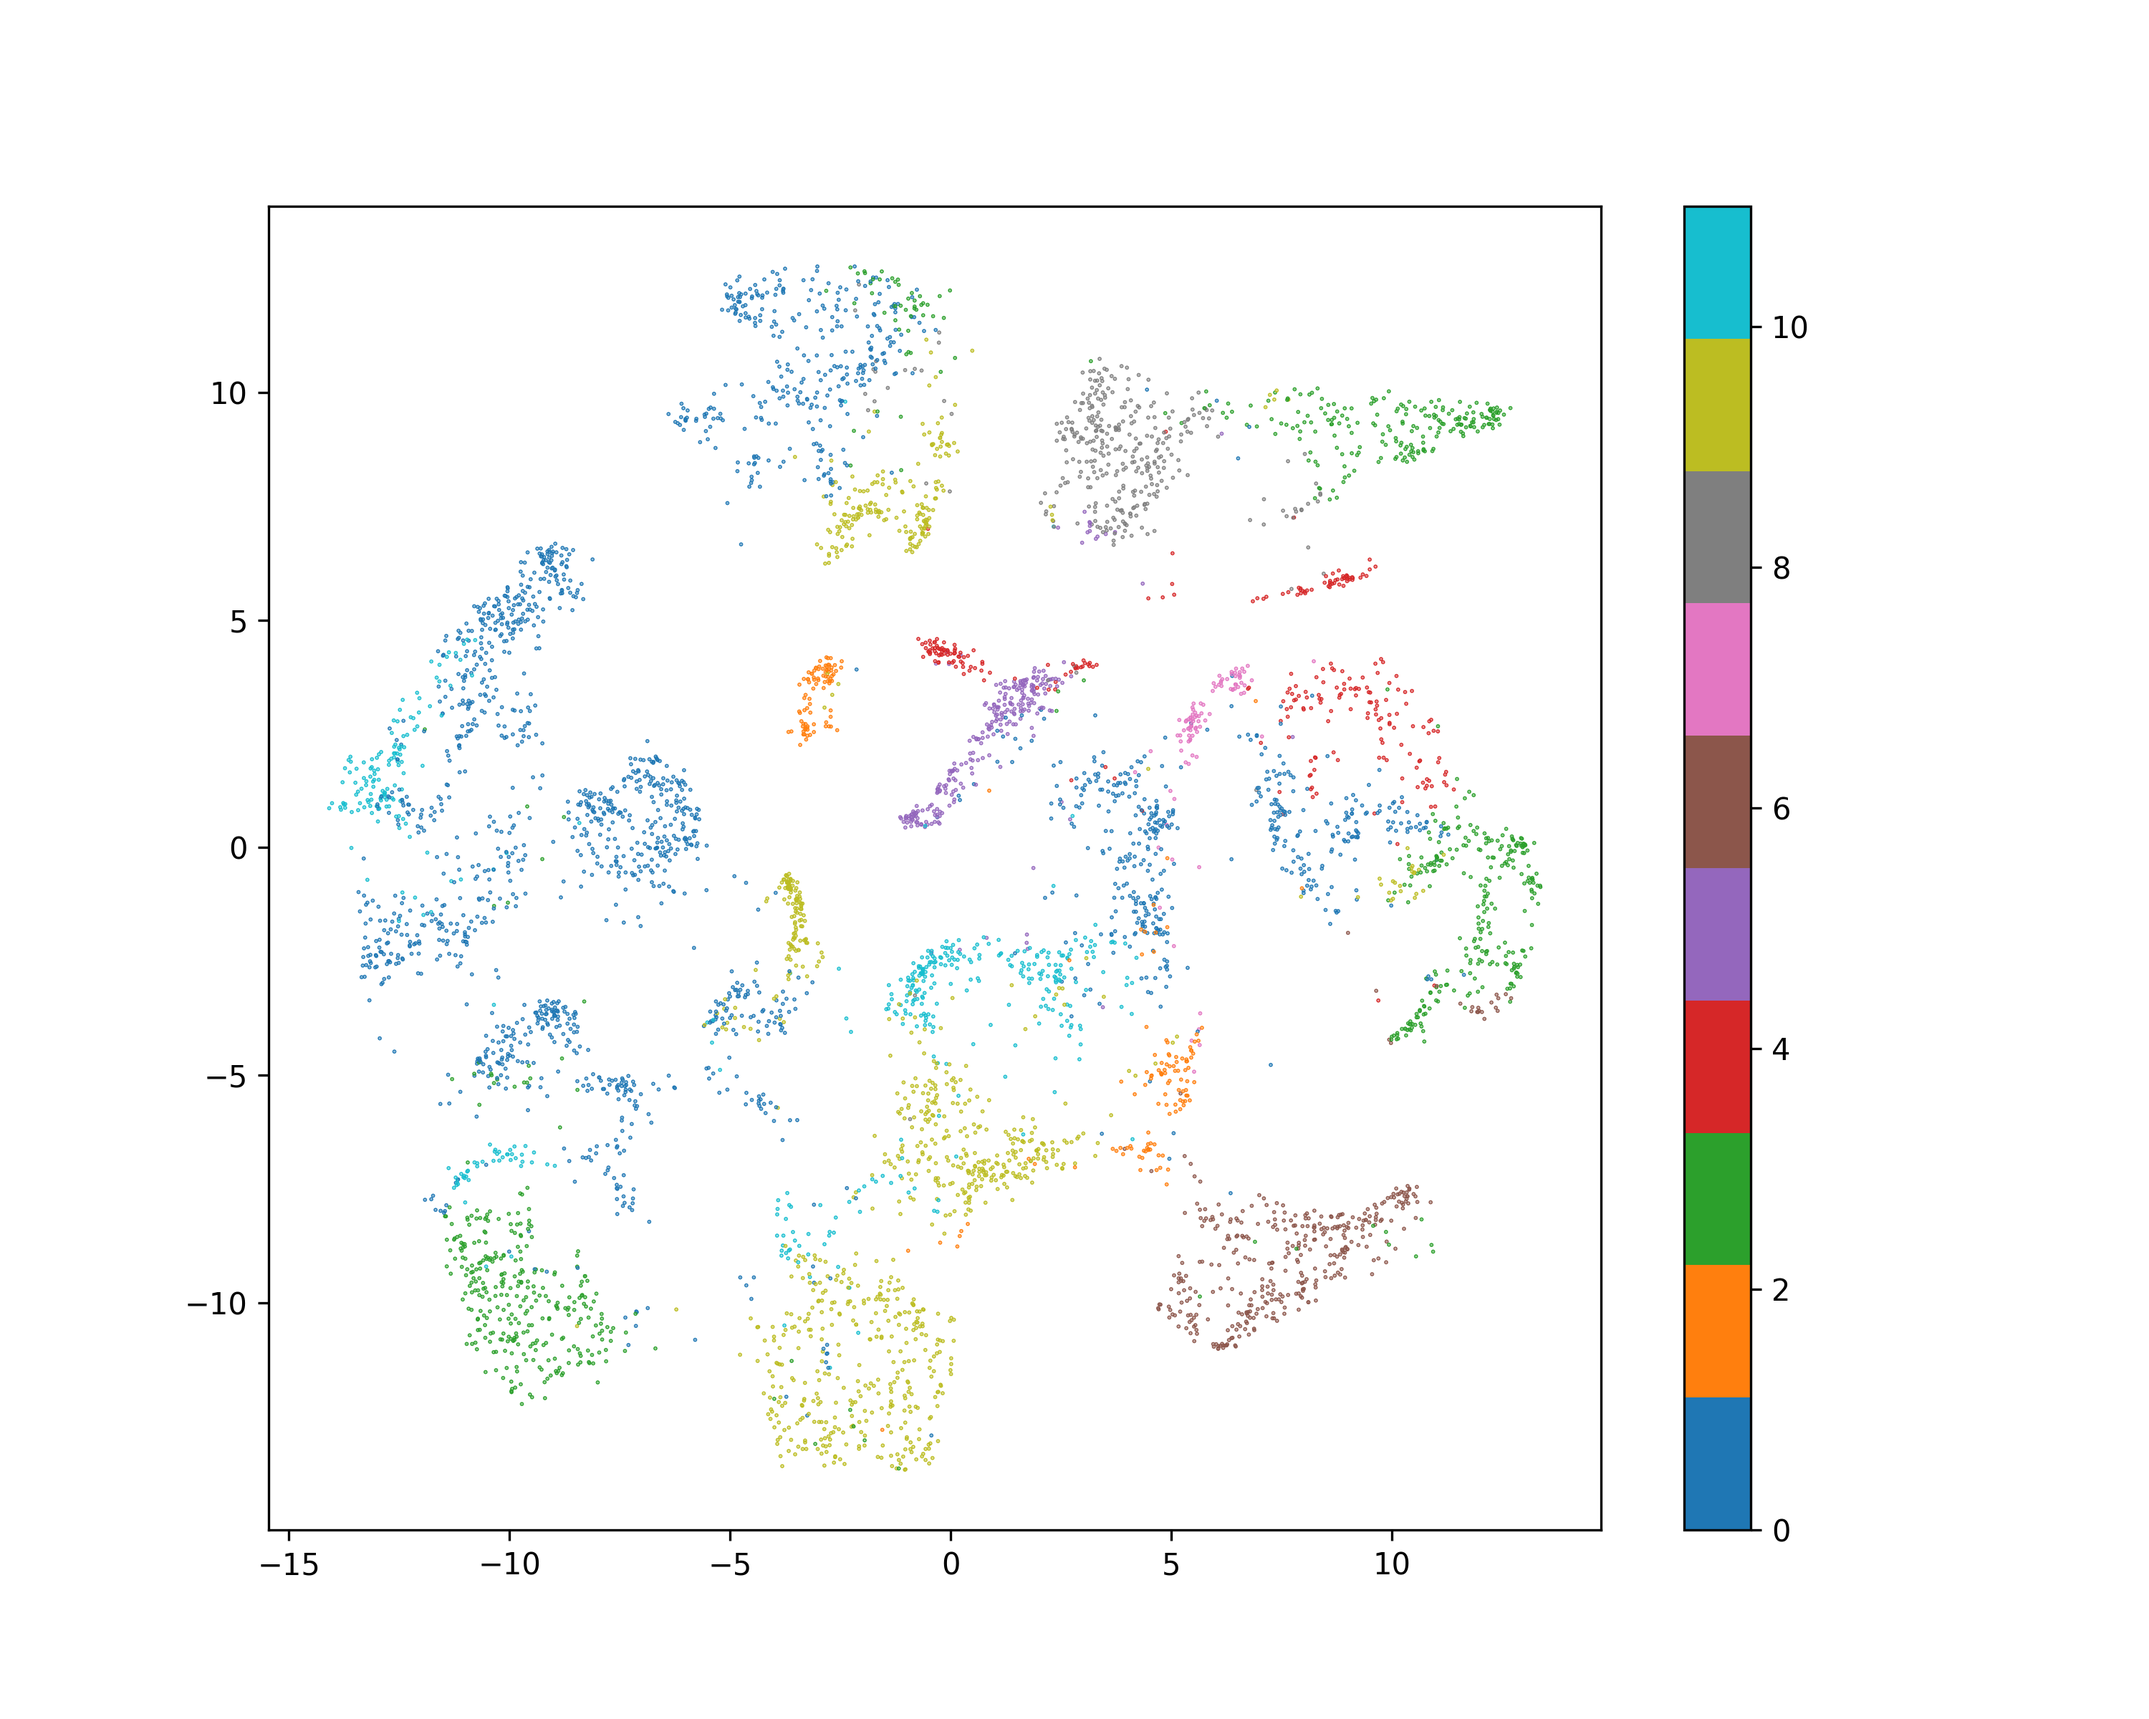
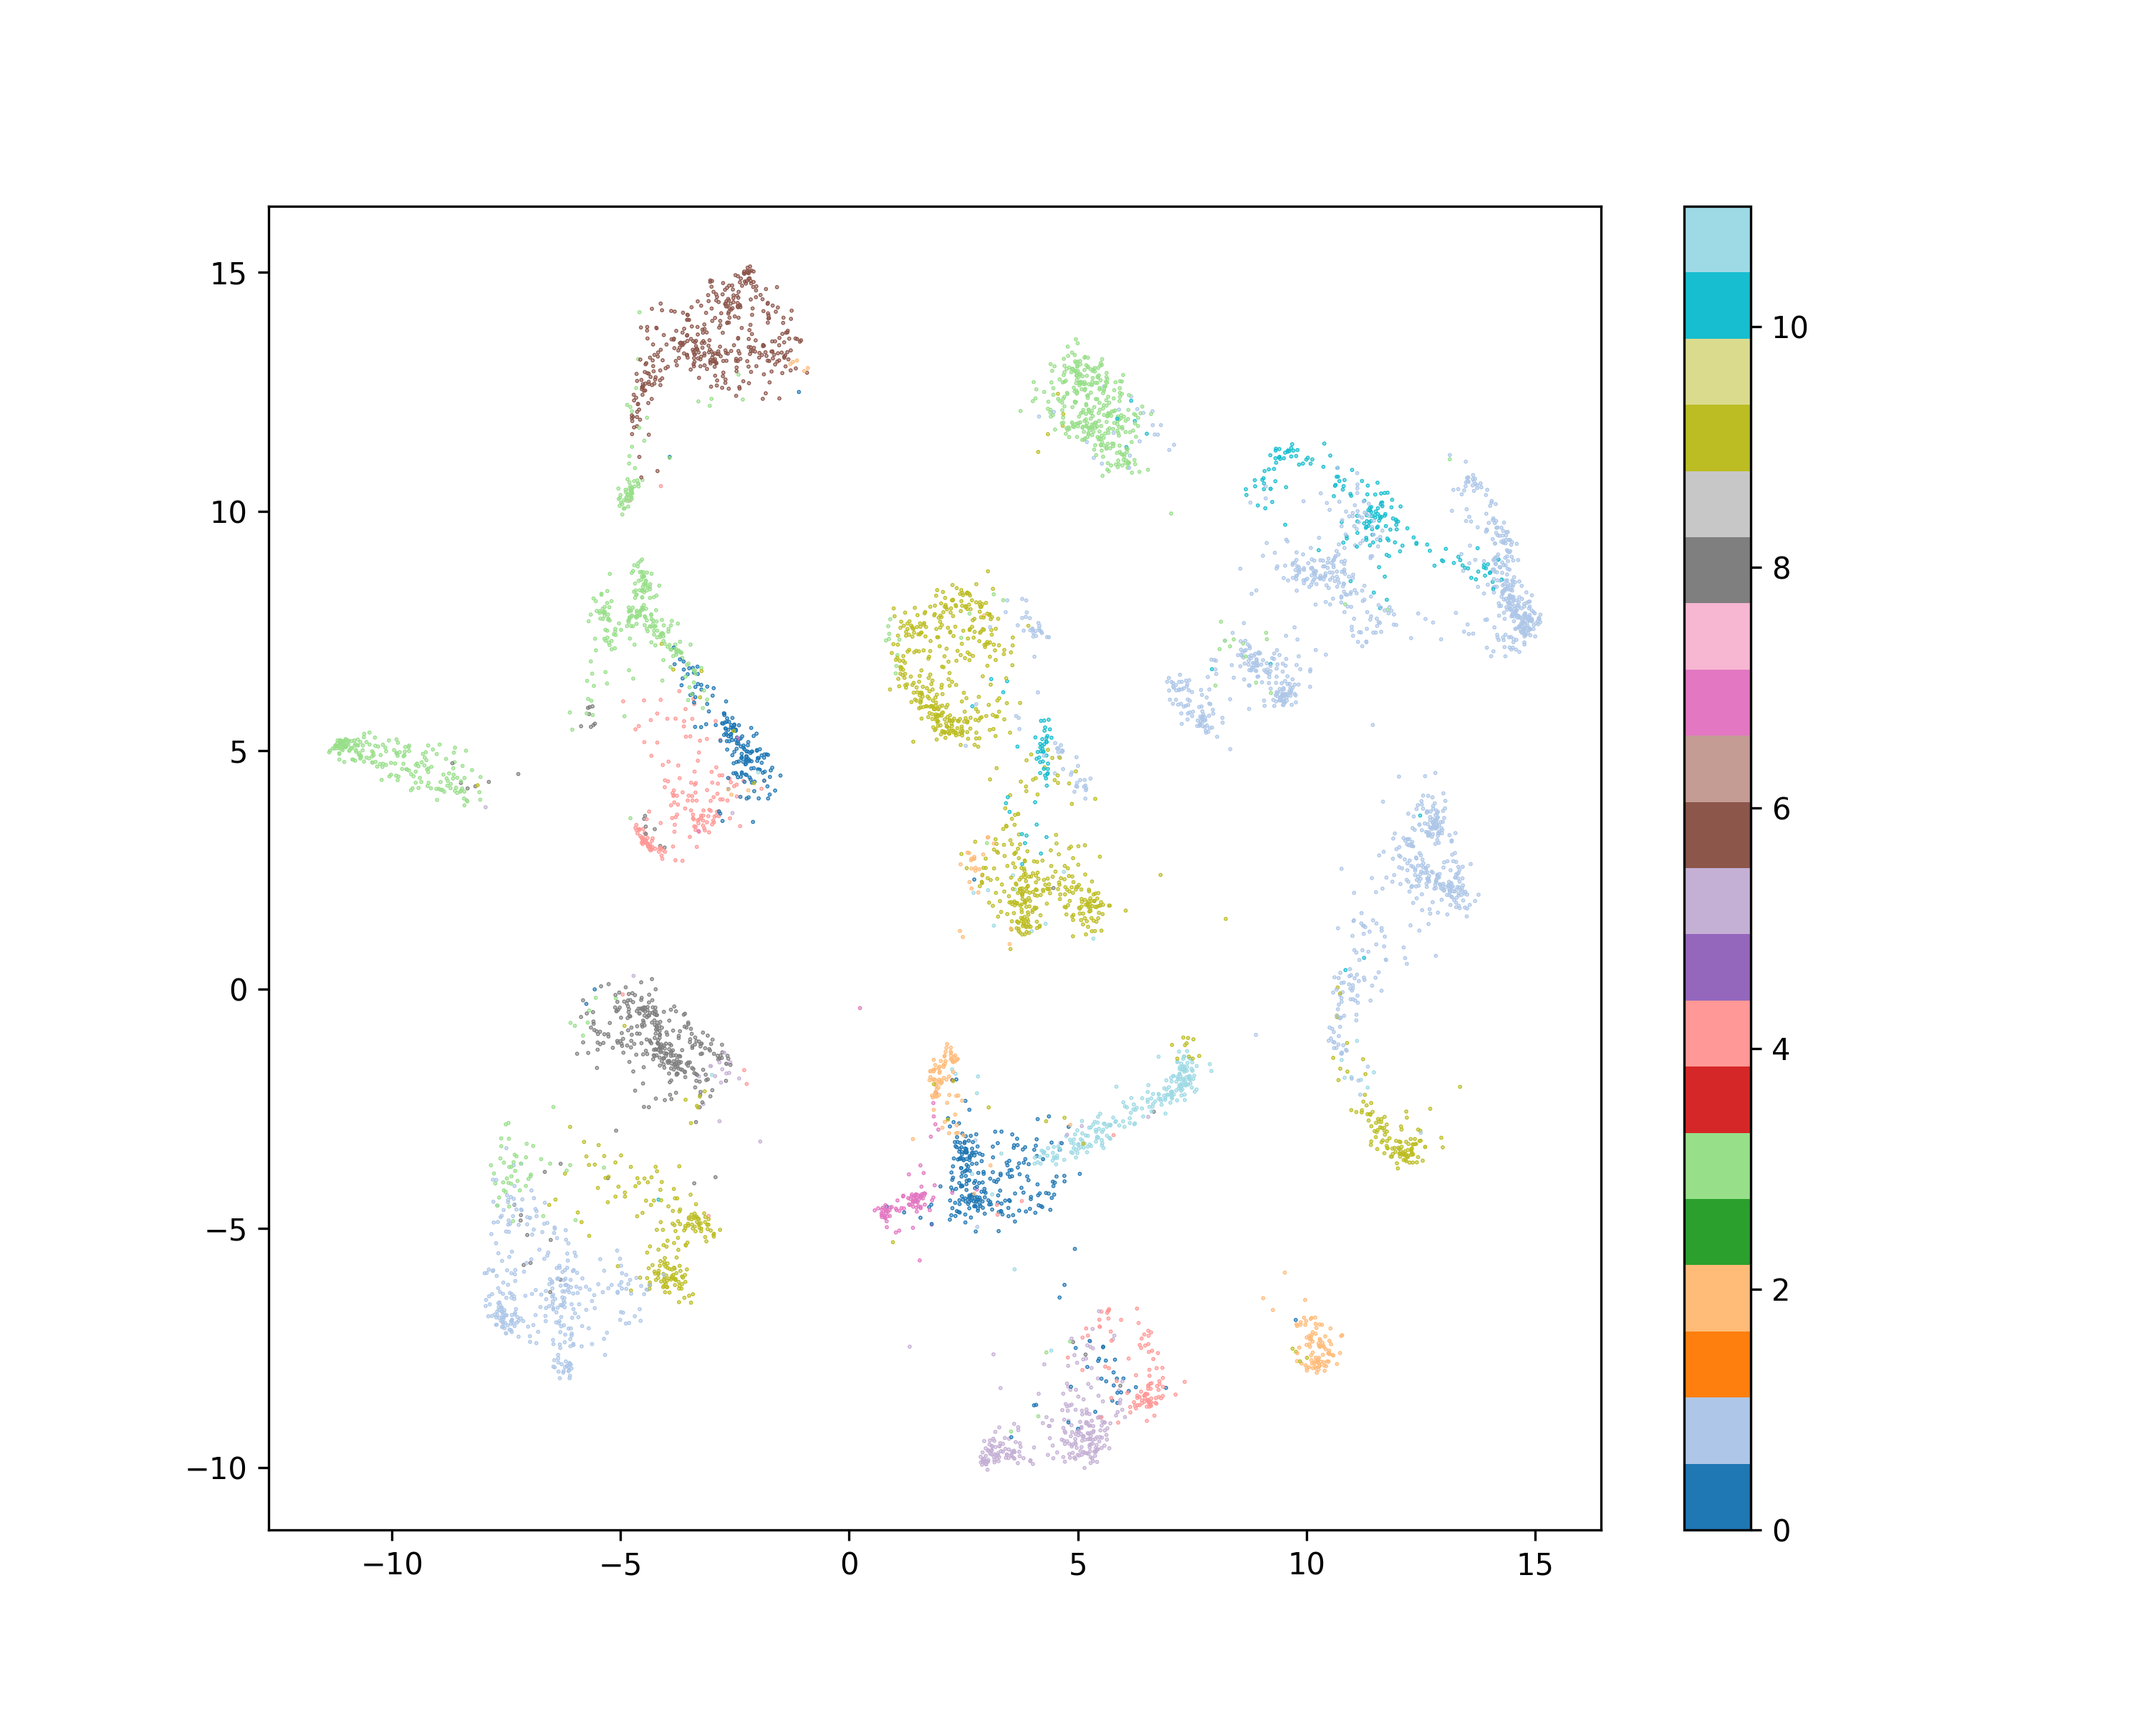
auto push

diff --git a/test/test.py b/test/test.py
@@ -58,13 +58,15 @@ def main(all_g_l_weight=0.5):
         temp=1,
         nu=0.002,
         loss_type='A',
-        n_neighbors=3,
+        n_neighbors=30,
+        dim_high=512,
         all_g_l_weight=all_g_l_weight,
     )
 
     # 使用 DMT 模型进行降维
-    vis_data = dmt.fit_transform(DATA)
+    vis_data, high_emb = dmt.fit_transform(DATA, return_high_dim=True)
     print(f"vis_data.shape: {vis_data.shape}")
+    print(f"high_emb.shape: {high_emb.shape}")
 
     # 绘制并保存可视化结果
     plt.figure(figsize=(10, 8))
@@ -78,12 +80,12 @@ if __name__ == '__main__':
     import multiprocessing
     multiprocessing.set_start_method('spawn', force=True)  # 强制使用 spawn，适配 Mac 和 Lightning
     main(all_g_l_weight=0.1)
-    main(all_g_l_weight=0.2)
-    main(all_g_l_weight=0.3)
-    main(all_g_l_weight=0.4)
-    main(all_g_l_weight=0.5)
-    main(all_g_l_weight=0.6)
-    main(all_g_l_weight=0.7)
-    main(all_g_l_weight=0.8)
-    main(all_g_l_weight=0.9)
-    main(all_g_l_weight=1.0)
+    # main(all_g_l_weight=0.2)
+    # main(all_g_l_weight=0.3)
+    # main(all_g_l_weight=0.4)
+    # main(all_g_l_weight=0.5)
+    # main(all_g_l_weight=0.6)
+    # main(all_g_l_weight=0.7)
+    # main(all_g_l_weight=0.8)
+    # main(all_g_l_weight=0.9)
+    # main(all_g_l_weight=1.0)

diff --git a/test.py b/test.py
@@ -63,6 +63,7 @@ def main(all_g_l_weight=0.8):
         loss_type='A',
         n_neighbors=3,
         all_g_l_weight=all_g_l_weight,
+        save_ckpt_path='ckpt/ckpt_mnist.pth',
     )
 
     # 使用 DMT 模型进行降维
